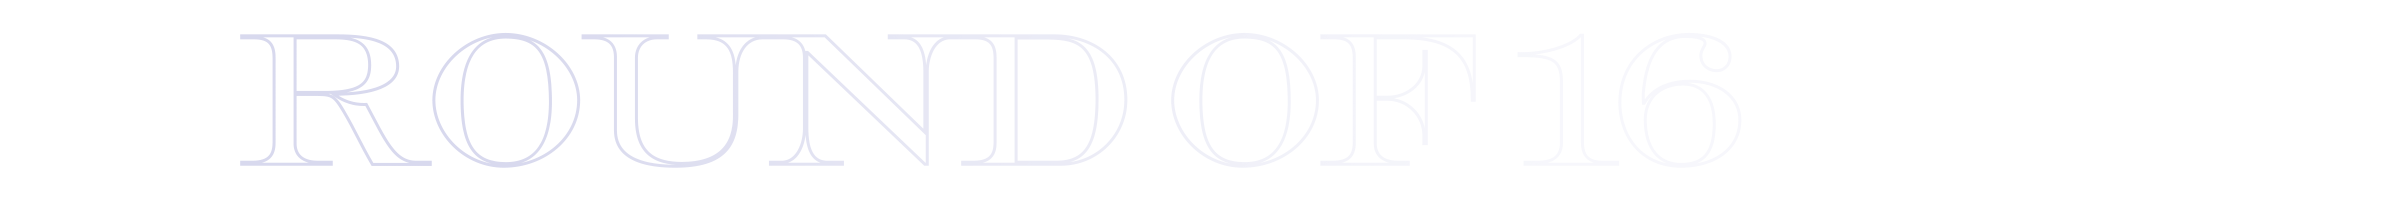
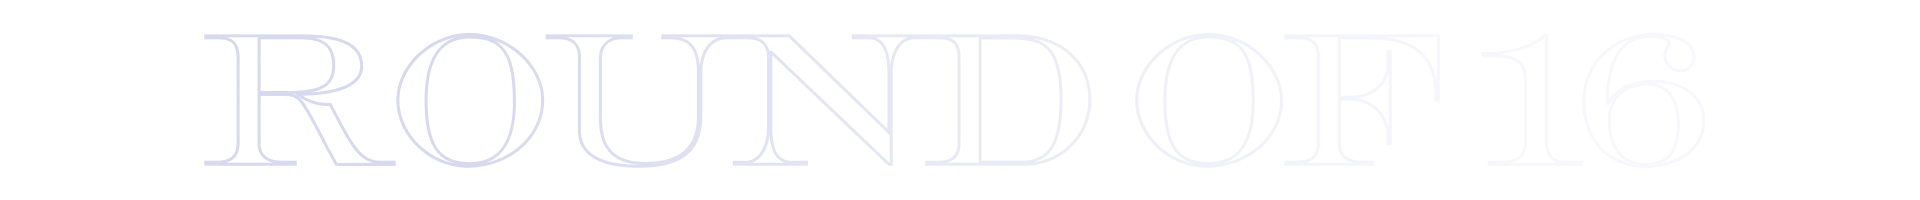
Update round images

diff --git a/main/style.css b/main/style.css
@@ -15,7 +15,7 @@ body { font-family: "Orlando Caps CG"; }
 .round-name-back {
     position: absolute;
     top: -21px;
-    left: -256px;
+    left: -15px;
 }
 /* Round Name Front */
 .round-name-front {
